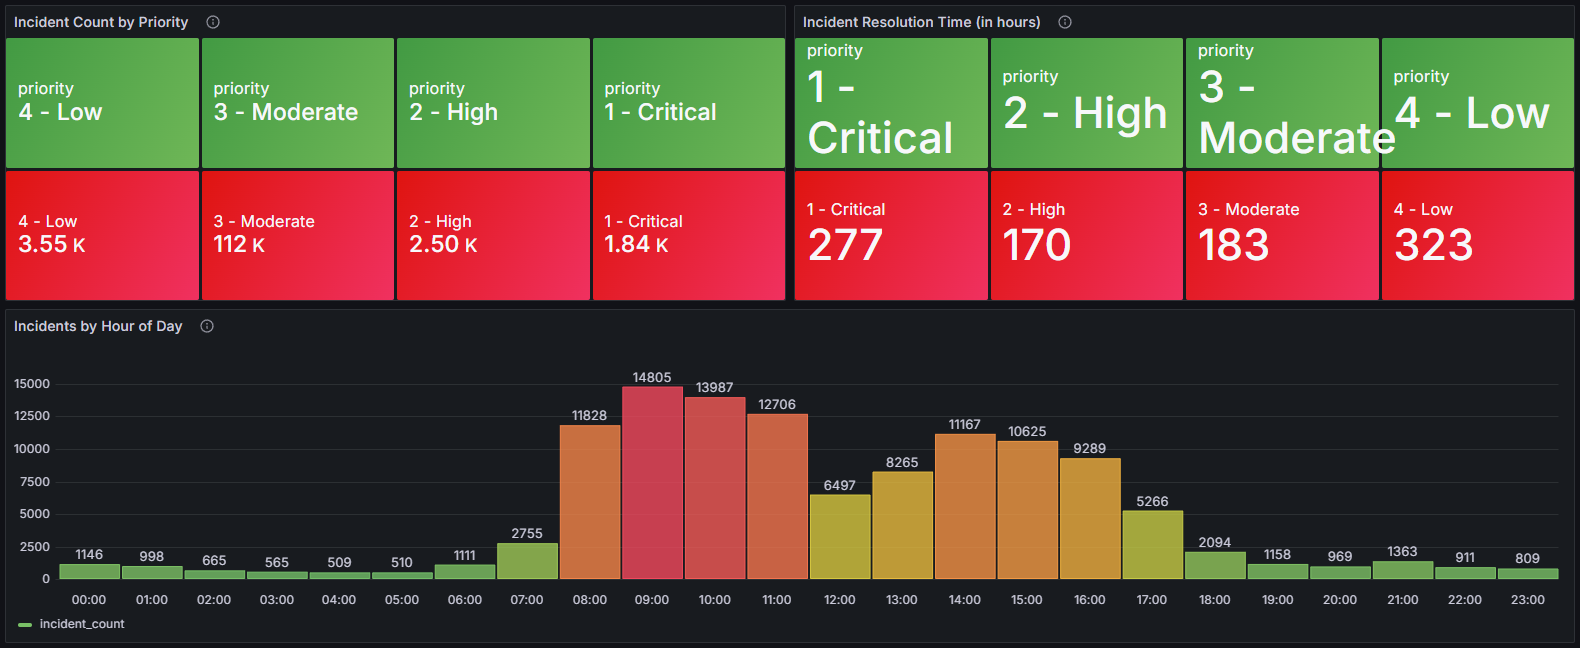
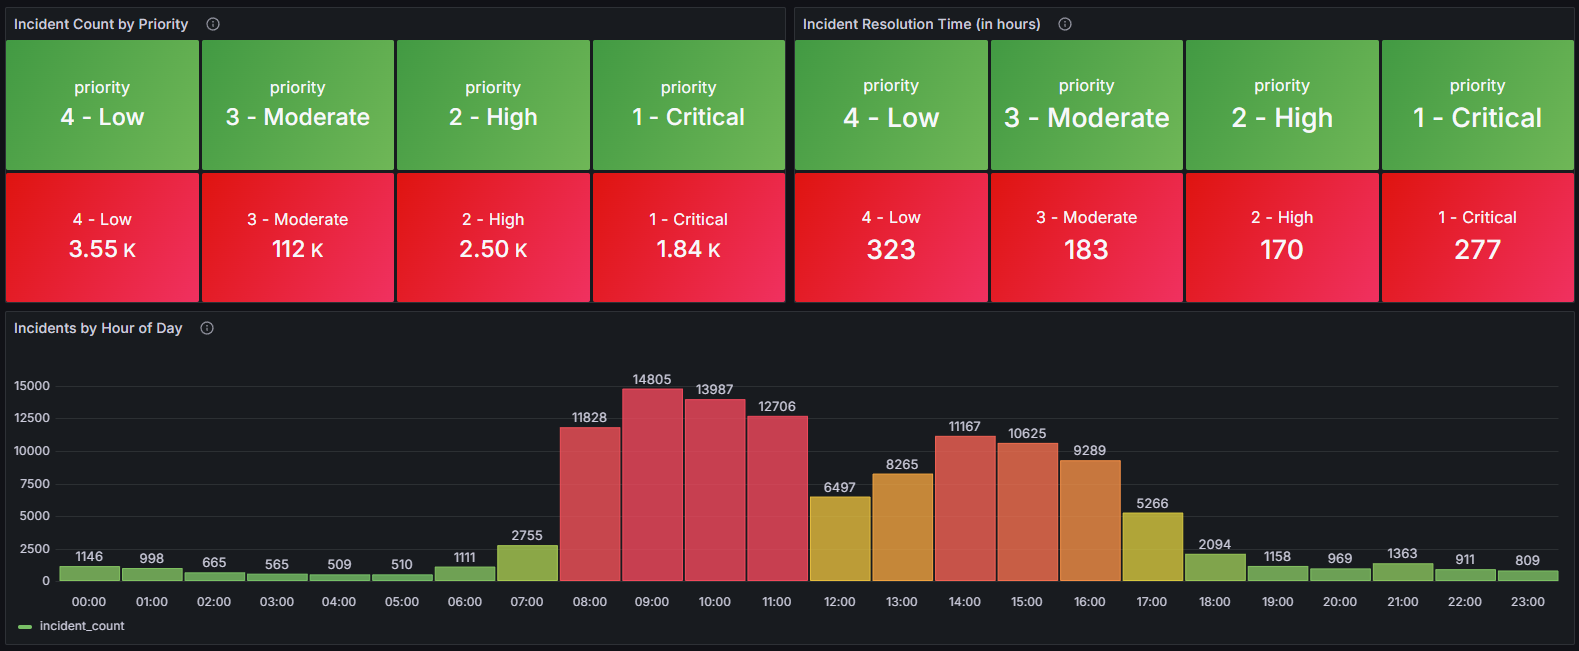
Picture fix and updated dashboard json (#13)
* swapped out Dash3 so it has a better pic that fits all the words in the box

* swapped out the dashboard json file with the updated one where the words fit the grid

* changed readme from 4hr approx to 5hr approx. forgot to save the file when i added/committed earlier lol

diff --git a/README.md b/README.md
@@ -14,7 +14,7 @@ BigKoala was created to simulate an Incident Management application through the 
 
 BigKoala utilizes Kafka producers and consumers to retrieve and filter information from the incident_event_log.csv file into a MySQL database. The log is from Kaggle (https://www.kaggle.com/datasets/vipulshinde/incident-response-log?resource=download).
 
-Depending on the machine this application is being ran on, processing all 120k lines with 0.1s delay could take approximately 4 hours (from the developers' general estimations). 
+Depending on the machine this application is being ran on, processing all 120k lines with 0.1s delay could take approximately 5 hours (from the developers' general estimations). 
 
 This project is a full backend application. The project is primarily written with Python code. 
 
